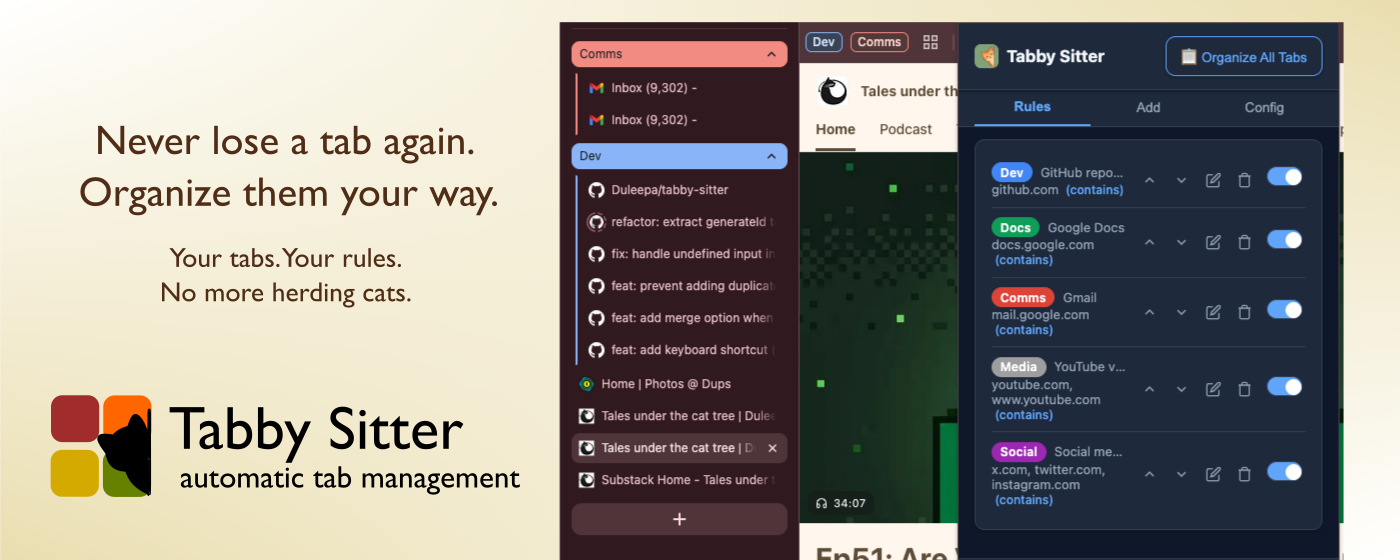
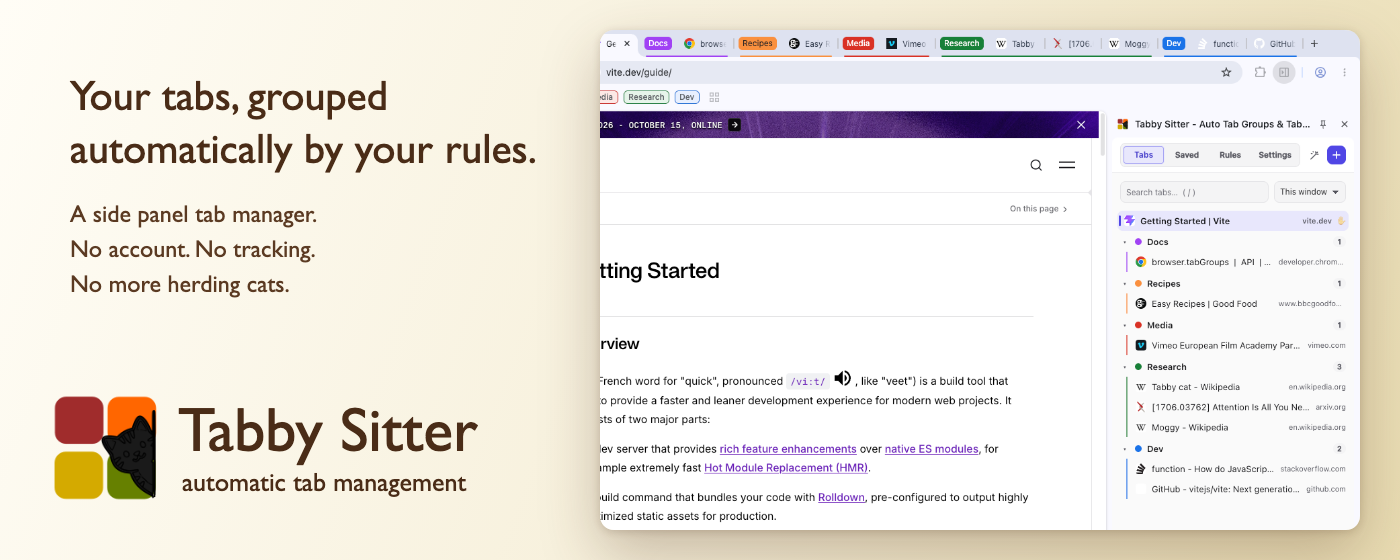
chore: new marquee tile and opaque promo images
The marquee showed the old popup UI and personal data; it now uses the v1.0.0
side panel from the demo screenshot, with an HTML source to re-render it.
Both promo tiles are flattened to 24-bit PNG (the store rejects alpha).

diff --git a/promotion/marquee-tile.html b/promotion/marquee-tile.html
@@ -1,0 +1,21 @@
+<!doctype html><html><head><meta charset="utf-8"><style>
+html,body{margin:0;width:1400px;height:560px;overflow:hidden}
+body{background:linear-gradient(110deg,#fffdf6 0%,#f6efd9 55%,#e9dcb2 100%);font-family:'Gill Sans','Gill Sans MT',sans-serif;color:#4a2c17;position:relative}
+.copy{position:absolute;left:70px;top:70px;width:470px}
+h1{font-weight:400;font-size:42px;line-height:1.25;margin:0 0 22px}
+.sub{font-size:24px;line-height:1.45;margin:0;color:#5b3a22}
+.brand{position:absolute;left:52px;bottom:58px;display:flex;align-items:center;gap:18px}
+.brand img{width:108px;height:108px}
+.name{font-size:62px;line-height:1}
+.tag{font-size:26px;margin-top:6px;margin-left:4px}
+.shot{position:absolute;left:600px;top:30px;width:760px;height:500px;border-radius:14px;overflow:hidden;
+ box-shadow:0 24px 60px rgba(74,44,23,.28),0 2px 8px rgba(74,44,23,.18);
+ background:url('./screenshot-1-tabs.png') -100px 0/860px 537.5px no-repeat}
+</style></head><body>
+<div class="copy">
+ <h1>Your tabs, grouped<br>automatically by your rules.</h1>
+ <p class="sub">A side panel tab manager.<br>No account. No tracking.<br>No more herding cats.</p>
+</div>
+<div class="brand"><img src="../public/icons/icon128.png"><div><div class="name">Tabby Sitter</div><div class="tag">automatic tab management</div></div></div>
+<div class="shot"></div>
+</body></html>

diff --git a/promotion/store-listing.md b/promotion/store-listing.md
@@ -86,8 +86,10 @@ To retake them, use a fresh Chrome profile with no sign-in, load `dist/` unpacke
 
 ## Promotional images
 
-- Small promo tile (440x280): `tabbysitter-logo.png` is already the correct size.
-- Marquee (1400x560): `marquee-tile.png`.
+Both are 24-bit PNG with no alpha, as the store requires.
+
+- Small promo tile (440x280): `tabbysitter-logo.png`.
+- Marquee (1400x560): `marquee-tile.png`, rendered from `marquee-tile.html` (open it in Chrome at 1400x560; it reuses `screenshot-1-tabs.png` and the extension icon). `marquee-tile.svg` is the older design.
 
 ## How this is positioned against competitors
 
